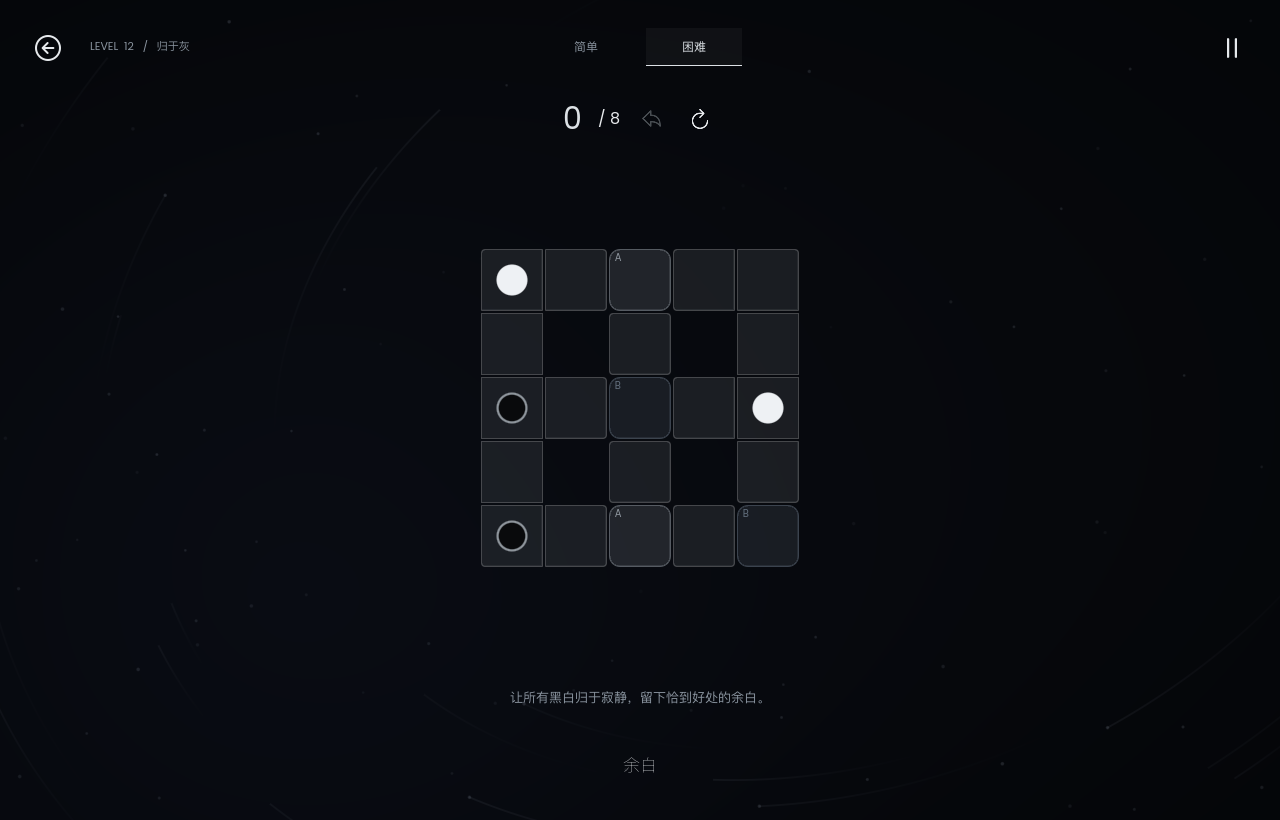
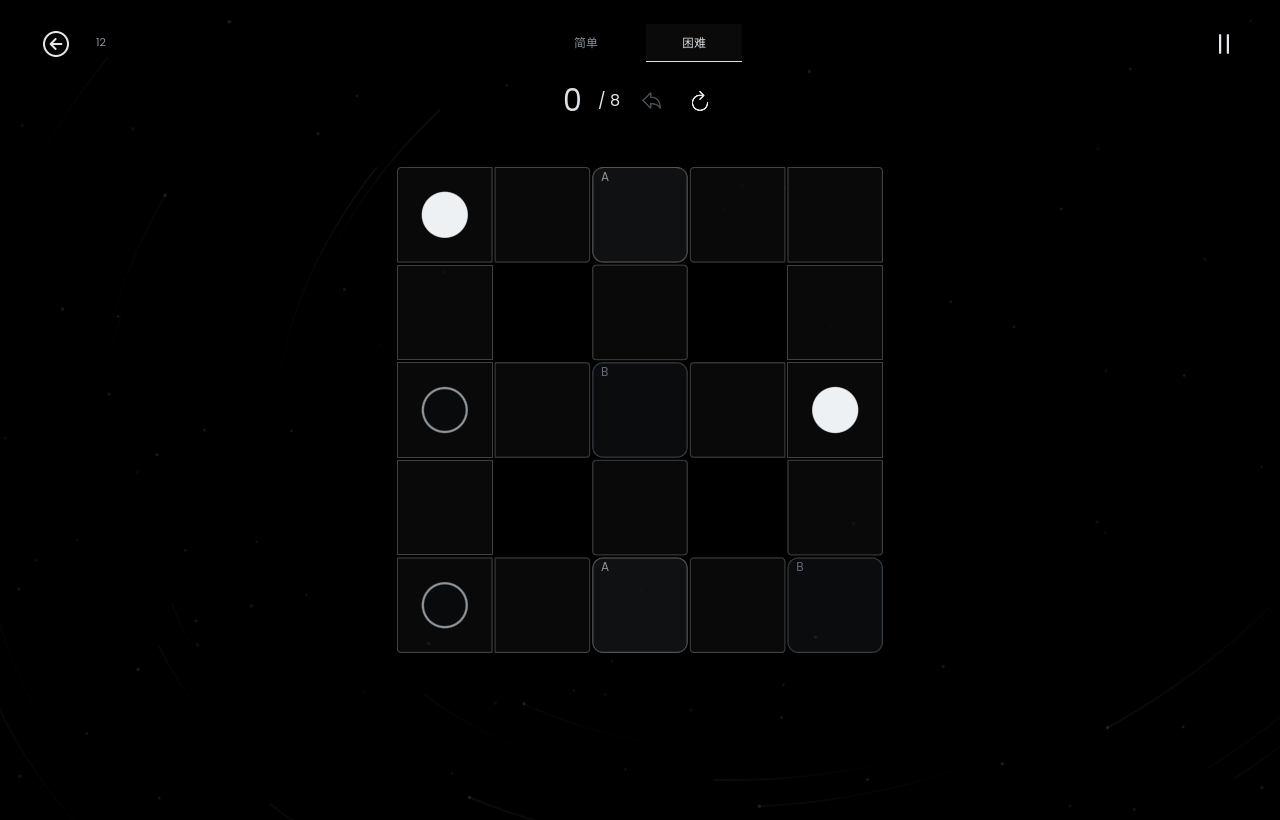
ui: fit every puzzle to the viewport and simplify play on pure black

diff --git a/tools/check.py b/tools/check.py
@@ -19,6 +19,7 @@ def main():
         ['godot', '--headless', '--path', '.', '--editor', '--import', '--quit'],
         ['godot', '--headless', '--path', '.', '--script', 'tests/run_tests.gd'],
         ['godot', *headless, '--path', '.', '--script', 'tests/ui_smoke.gd'],
+        ['godot', *headless, '--path', '.', '--script', 'tests/layout_smoke.gd'],
         ['godot', *headless, '--path', '.', '--script', 'tests/app_smoke.gd'],
     ]
     for command in commands:

diff --git a/docs/design.md b/docs/design.md
@@ -81,13 +81,15 @@ flowchart TD
 
 ## 视觉和关卡节奏
 
-视觉围绕「归零后的虚无」展开：接近黑色的冷调夜空、稀疏星点、长曝光式星轨与大面积留白。星轨围绕偏离画面中心的椭圆缓慢移动，中央保持空净。偶尔有一颗流星在边缘掠过，不阻止玩家立即开始。标题上方的细线椭圆既是数字 0，也是空的轨道；悬停或聚焦开始按钮时，环形轻微展开。图标沿用同一零形。
+视觉围绕「归零后的虚无」展开：纯黑底色（#000000）、稀疏星点、长曝光式星轨与大面积留白。星轨围绕偏离画面中心的椭圆缓慢移动，中央保持空净。偶尔有一颗流星在边缘掠过，不阻止玩家立即开始。标题上方的细线椭圆既是数字 0，也是空的轨道；悬停或聚焦开始按钮时，环形轻微展开。图标沿用同一零形。
 
-背景采用简单渐变着色器和原生矢量绘制，不依赖贴图或外部素材。首页保留完整星轨，选关和设置降低亮度，游戏中进一步淡化，避免与棋子、传送门和可走提示争夺注意力。星轨漂移按每秒 30 次更新，窗口缩放时保持轨道比例。
+背景使用纯黑色块和原生矢量绘制，不添加灰蓝渐变或辉光。首页保留完整星轨，选关和设置降低亮度，游戏中进一步淡化，避免与棋子、传送门和可走提示争夺注意力。星轨漂移按每秒 30 次更新，窗口缩放时保持轨道比例。
 
-首页去掉介绍、外链、统计与并列菜单；开始操作立即进入关卡，不播放阻塞式开场。常规说明通过前三关和设置页提供。整体强调使用中性灰白，传送门保留字母与灰蓝差异，帮助在黑白主题下区分门组。
+首页去掉介绍、外链、统计与并列菜单；开始操作立即进入关卡，不播放阻塞式开场。操作与简短规则集中在「设置 → 操作」，游戏中不常驻教学文案。整体强调使用中性灰白，传送门保留字母与灰蓝差异，帮助在黑白主题下区分门组。
 
-游戏页让棋盘悬浮于暗场中，减少围框、英文装饰标题和重复状态提示。顶部保留有效步数、模式、撤销与重开，底部保留关卡引导和需要处理的反馈。减少动态效果会停用标记过渡、页面淡入和棋子动画，同时立即冻结星轨、关闭流星和背景明暗过渡，保留静态画面。
+游戏页只保留关卡编号、有效步数、模式、撤销与重开；关卡名与章节仅通过编号的悬停提示显示。移除棋盘下方的关卡名、说明和超步劝导；无效操作只短暂显示「无法移动」，存档失败保留短提示，完成后只显示结果和步数。减少动态效果会停用标记过渡、页面淡入和棋子动画，同时立即冻结星轨、关闭流星和背景明暗过渡，保留静态画面。
+
+布局直接响应窗口的实际尺寸，不对整个界面强制固定宽高比。棋盘在屏幕中央保持正方形格子，按关卡行列、可用空间和窗口短边选择格子大小；横向八格与五行方阵都完整显示。工具栏和短暂反馈单独留出空间，窄屏时把模式切换移到第二行。布局检查覆盖 20 关 × 9 种窗口尺寸，并检查网格裁切、按钮重叠、指针命中与完成面板。
 
 正式名称为「归零 / NULL」，对应黑白相抵、清空棋盘的目标。启动时会将已有进度与设置复制到新名称对应的数据目录；若新目录已有文件，则保留当前文件。迁移不改动原文件。
 

diff --git a/README.md b/README.md
@@ -30,8 +30,9 @@ Each level supports both modes, with separate completion records and a shared pe
 - Minimum move counts verified by independent Python and GDScript solvers.
 - Automatic saves, resumable games, and undo history restored after restarting.
 - A minimal title screen that starts the next unfinished level or resumes the current run.
-- Black-and-white pieces, a quiet star-trail background, and an orbital zero mark.
+- Black-and-white pieces, a pure black background with faint star trails, and an orbital zero mark.
 - Fullscreen and reduced-motion settings; background details fade during play.
+- Centered, square-cell boards that resize with the window, without a text footer during play.
 
 ## Controls
 
@@ -47,6 +48,7 @@ Each level supports both modes, with separate completion records and a shared pe
 | F11 | Toggle fullscreen |
 
 Level selection is available from the back button during play or the pause menu. Switching modes restarts the current level.
+Optional controls and a short rules reference are available under Settings → Controls.
 
 ## Run locally
 
@@ -68,6 +70,7 @@ python3 tools/check.py --visual
 ~~~
 
 The visual checks open native windows and save screenshots in `builds/`. Tests use isolated saves.
+Layout checks cover all 20 levels at nine viewport sizes, including ultrawide and portrait layouts, and verify pointer input after resizing.
 
 After changing a level, regenerate its shortest-path certificate and run the checks:
 

diff --git a/assets/README.md b/assets/README.md
@@ -1,9 +1,9 @@
 # Visual assets
 
-NULL uses black-and-white pieces against a cool night sky, with sparse orbital trails and an empty zero as its mark.
+NULL uses black-and-white pieces against a pure black background (#000000), with sparse orbital trails and an empty zero as its mark.
 
 - The mark in scripts/ui/zero_mark.gd is a native vector oval with a softly varying edge. It responds to start-button hover and keyboard focus.
-- scripts/ui/void_background.gd combines a subtle shader gradient with vector stars, slowly drifting trails, and an occasional meteor. Details fade during play. Reduced motion freezes the trails and disables meteors.
+- scripts/ui/void_background.gd draws vector stars, slowly drifting trails, and an occasional meteor over solid black. Details fade during play. Reduced motion freezes the trails and disables meteors.
 - icon.svg and toggle-*.svg are project-specific vector assets.
 - Poppins-ExtraLight.ttf and Poppins-Regular.ttf come from the Google Fonts repository. The bundled OFL license is retained in source and export packages. Chinese text uses system font fallbacks.
 - General interface icons use Ionicons 7.1.0, with grayscale tinting applied by Godot. Their license is included in icons/LICENSE.txt.
